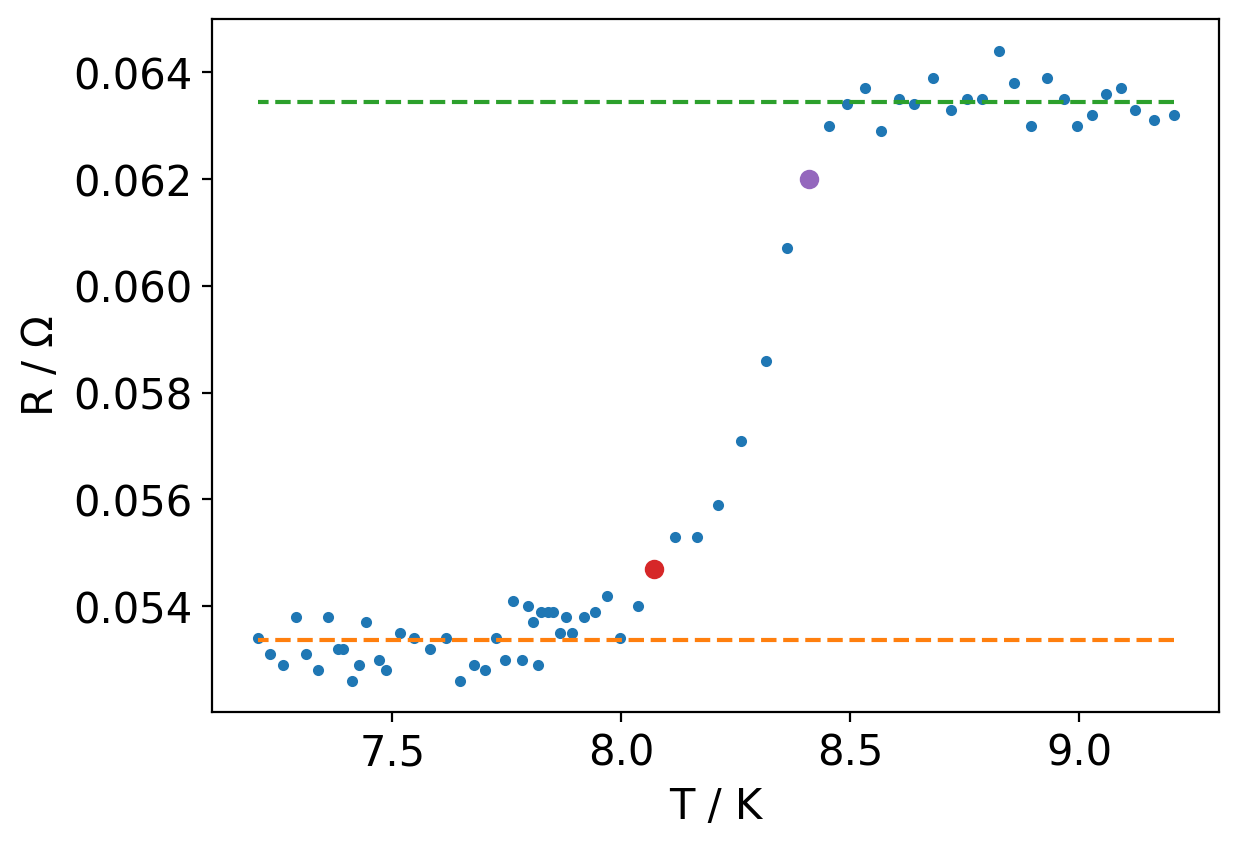
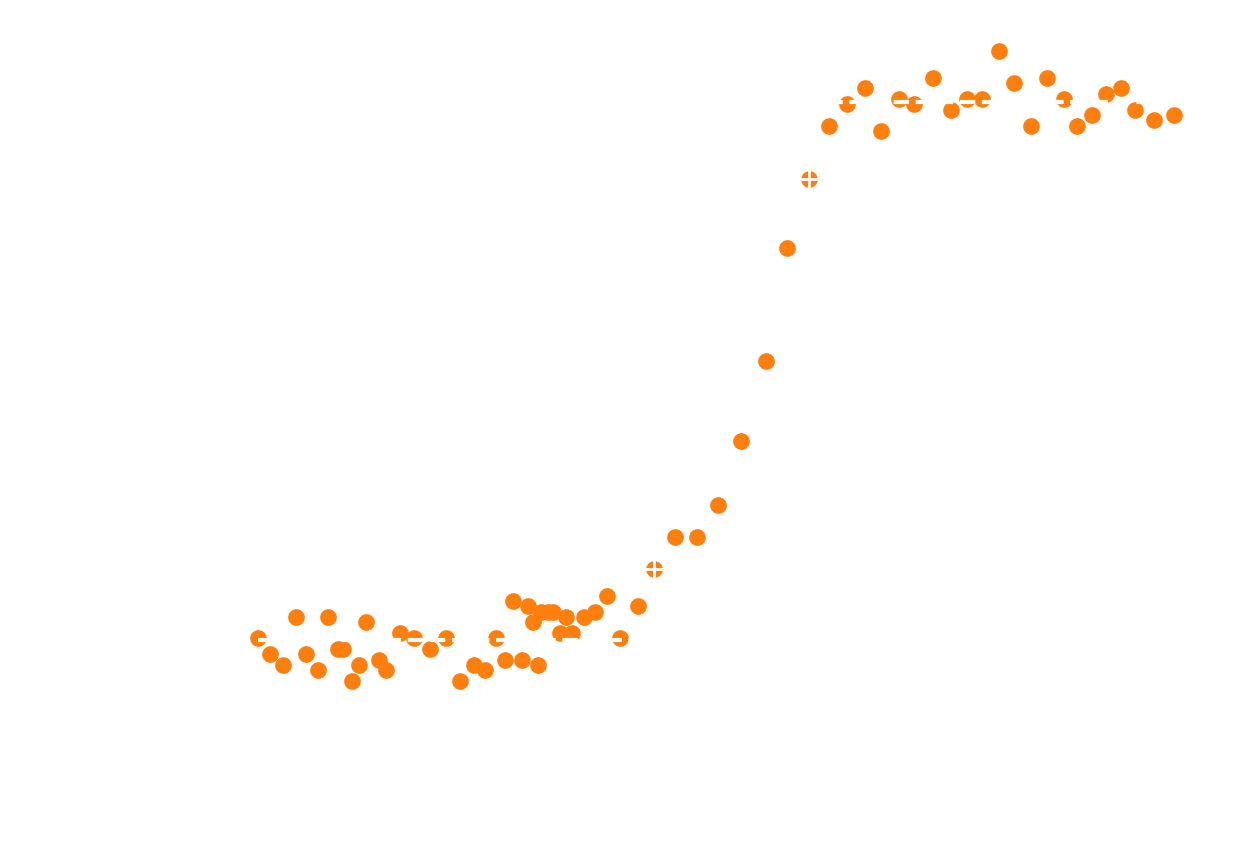
x

diff --git a/script5.py b/script5.py
@@ -13,6 +13,7 @@ class run:
 		self.export_extension = ".png"
 		self.dpi = 200
 		self.figsize = (6.5, 4.5)
+		self.markersize = 10
 
 
 	def main(self):
@@ -37,6 +38,18 @@ class run:
 			return x
 
 		plt.rcParams['font.size'] = '15'
+		#'''
+		plt.rcParams['axes.edgecolor'] = 'w'
+		plt.rcParams['axes.labelcolor'] = 'w'
+		plt.rcParams['figure.edgecolor'] = 'w'
+		plt.rcParams['legend.edgecolor'] = 'w'
+		plt.rcParams['text.color'] = 'w'
+		plt.rcParams['legend.facecolor'] = 'none'
+		plt.rcParams['xtick.color'] = 'w'
+		plt.rcParams['ytick.color'] = 'w'
+		
+		plt.rcParams['savefig.transparent'] = 'True'
+		#'''
 		
 		print(80*"_"+"\n\nSupraleitung Auswertung2 eigene Messdaten")
 
@@ -193,12 +206,12 @@ class run:
 		R_90p_B_0 = R_90p
 			
 		fig = plt.figure(figsize=self.figsize, dpi=80).add_subplot(1, 1, 1)
-		plt.plot(T_data, R_data, '.')
+		plt.plot(T_data, R_data, '.', color = "deepskyblue", markersize=self.markersize)
 		T_data = np.linspace(T_data[0],T_data[-1],1000)
-		plt.plot(T_data[fit_plot_range_os_l[0]:fit_plot_range_os_l[1]], offset(T_data[fit_plot_range_os_l[0]:fit_plot_range_os_l[1]], *popt_os_l), '--')
-		plt.plot(T_data[fit_plot_range_os_r[0]:fit_plot_range_os_r[1]], offset(T_data[fit_plot_range_os_r[0]:fit_plot_range_os_r[1]], *popt_os_r), '--')
-		plt.plot(Tc_10p, R_10p, 'o')
-		plt.plot(Tc_90p, R_90p, 'o')
+		plt.plot(T_data[fit_plot_range_os_l[0]:fit_plot_range_os_l[1]], offset(T_data[fit_plot_range_os_l[0]:fit_plot_range_os_l[1]], *popt_os_l), 'w--', markersize=self.markersize)
+		plt.plot(T_data[fit_plot_range_os_r[0]:fit_plot_range_os_r[1]], offset(T_data[fit_plot_range_os_r[0]:fit_plot_range_os_r[1]], *popt_os_r), 'w--', markersize=self.markersize)
+		plt.plot(Tc_10p, R_10p, 'w+', markersize=20)
+		plt.plot(Tc_90p, R_90p, 'w+', markersize=20)
 		plt.xlabel("T / K")
 		plt.ylabel(r"R / $\Omega$")
 		#plt.title("Tc Plot für I = 0A")
@@ -254,12 +267,12 @@ class run:
 		R_90p_B_1 = R_90p
 		
 		fig = plt.figure(figsize=self.figsize, dpi=80).add_subplot(1, 1, 1)
-		plt.plot(T_data, R_data, '.')
+		plt.plot(T_data, R_data, '.', color="tab:green", markersize=self.markersize)
 		T_data = np.linspace(T_data[0],T_data[-1],1000)
-		plt.plot(T_data[fit_plot_range_os_l[0]:fit_plot_range_os_l[1]], offset(T_data[fit_plot_range_os_l[0]:fit_plot_range_os_l[1]], *popt_os_l), '--')
-		plt.plot(T_data[fit_plot_range_os_r[0]:fit_plot_range_os_r[1]], offset(T_data[fit_plot_range_os_r[0]:fit_plot_range_os_r[1]], *popt_os_r), '--')
-		plt.plot(Tc_10p, R_10p, 'o')
-		plt.plot(Tc_90p, R_90p, 'o')
+		plt.plot(T_data[fit_plot_range_os_l[0]:fit_plot_range_os_l[1]], offset(T_data[fit_plot_range_os_l[0]:fit_plot_range_os_l[1]], *popt_os_l), 'w--', markersize=self.markersize)
+		plt.plot(T_data[fit_plot_range_os_r[0]:fit_plot_range_os_r[1]], offset(T_data[fit_plot_range_os_r[0]:fit_plot_range_os_r[1]], *popt_os_r), 'w--', markersize=self.markersize)
+		plt.plot(Tc_10p, R_10p, 'w+', markersize=20)
+		plt.plot(Tc_90p, R_90p, 'w+', markersize=20)
 		plt.xlabel("T / K")
 		plt.ylabel(r"R / $\Omega$")
 		#plt.title("Tc Plot für I = 0A")
@@ -318,12 +331,12 @@ class run:
 		R_90p_B_2 = R_90p
 		
 		fig = plt.figure(figsize=self.figsize, dpi=80).add_subplot(1, 1, 1)
-		plt.plot(T_data, R_data, '.')
+		plt.plot(T_data, R_data, '.', color="tab:orange", markersize=self.markersize)
 		T_data = np.linspace(T_data[0],T_data[-1],1000)
-		plt.plot(T_data[fit_plot_range_os_l[0]:fit_plot_range_os_l[1]], offset(T_data[fit_plot_range_os_l[0]:fit_plot_range_os_l[1]], *popt_os_l), '--')
-		plt.plot(T_data[fit_plot_range_os_r[0]:fit_plot_range_os_r[1]], offset(T_data[fit_plot_range_os_r[0]:fit_plot_range_os_r[1]], *popt_os_r), '--')
-		plt.plot(Tc_10p, R_10p, 'o')
-		plt.plot(Tc_90p, R_90p, 'o')
+		plt.plot(T_data[fit_plot_range_os_l[0]:fit_plot_range_os_l[1]], offset(T_data[fit_plot_range_os_l[0]:fit_plot_range_os_l[1]], *popt_os_l), 'w--', markersize=self.markersize)
+		plt.plot(T_data[fit_plot_range_os_r[0]:fit_plot_range_os_r[1]], offset(T_data[fit_plot_range_os_r[0]:fit_plot_range_os_r[1]], *popt_os_r), 'w--', markersize=self.markersize)
+		plt.plot(Tc_10p, R_10p, 'w+', markersize=20)
+		plt.plot(Tc_90p, R_90p, 'w+', markersize=20)
 		plt.xlabel("T / K")
 		plt.ylabel(r"R / $\Omega$")
 		#plt.title("Tc Plot für I = 0A")
@@ -337,15 +350,15 @@ class run:
 
 		
 		fig = plt.figure(figsize=self.figsize, dpi=80).add_subplot(1, 1, 1)
-		plt.plot(T_data_B_0, R_data_B_0, '.', label = r"$\mu_0$H=0")
-		plt.plot(T_data_B_2, R_data_B_2, '.', label = r"$\mu_0$H=129mT")
-		plt.plot(T_data_B_1, R_data_B_1, '.', label = r"$\mu_0$H=259mT")
+		plt.plot(T_data_B_0, R_data_B_0, '.', color = "deepskyblue", markersize=self.markersize, label = r"$\mu_0$H=0")
+		plt.plot(T_data_B_2, R_data_B_2, '.', color = "tab:orange", markersize=self.markersize, label = r"$\mu_0$H=129mT")
+		plt.plot(T_data_B_1, R_data_B_1, '.', color = "tab:green", markersize=self.markersize, label = r"$\mu_0$H=259mT")
 		plt.xlabel("T / K")
 		plt.ylabel(r"R / $\Omega$")
 		plt.xlim(5, None)
 		#plt.title("Tc Plot für I = 0A")
 		#plt.legend(loc='lower right')
-		plt.legend(loc='upper left')
+		plt.legend(loc='upper left', markerscale=2)
 		maximize()
 		plt.savefig(self.export_folder+"Tc_plot_all"+self.export_extension, bbox_inches='tight', dpi=self.dpi)
 		plt.show()
@@ -394,18 +407,20 @@ class run:
 		print("oberes krit. Magnetfeld Bc2={:.4}T".format(B_c2))
 		
 		fig = plt.figure(figsize=self.figsize, dpi=80).add_subplot(1, 1, 1)
-		plt.plot(T_data_10p, B_data, 'o')
-		plt.plot(T_data_90p, B_data, 'o')
+		plt.plot(T_data_10p, B_data, 'o', color = "deepskyblue")
+		plt.plot(T_data_90p, B_data, 'o', color = "tab:orange")
 		T_data_10p = np.linspace(T_data_10p[fit_plot_range[0]:fit_plot_range[1]][0],T_data_10p[fit_plot_range[0]:fit_plot_range[1]][-1],1000)
 		T_data_90p = np.linspace(T_data_90p[fit_plot_range[0]:fit_plot_range[1]][0],T_data_90p[fit_plot_range[0]:fit_plot_range[1]][-1],1000)
-		plt.plot(T_data_10p, lin(T_data_10p, *popt_10p), '--', color= "tab:blue", label = r"Lin. Fit: $y=S\cdot x+a$"+"\n"+r"S=({:.4}$\pm${:.3})mT/K".format(popt_10p[1],np.sqrt(np.diag(pcov_10p))[1]))
-		plt.plot(T_data_90p, lin(T_data_90p, *popt_90p), '--', color= "tab:orange", label = r"Lin. Fit: $y=S\cdot x+a$"+"\n"+r"S=({:.4}$\pm${:.3})mT/K".format(popt_90p[1],np.sqrt(np.diag(pcov_90p))[1]))
+		plt.plot(T_data_10p, lin(T_data_10p, *popt_10p), '--', markersize=self.markersize, color= "deepskyblue", label = r"Lin. Fit: $y=S\cdot x+a$"+"\n"+r"S=({:.4}$\pm${:.3})mT/K".format(popt_10p[1],np.sqrt(np.diag(pcov_10p))[1]))
+		plt.plot(T_data_90p, lin(T_data_90p, *popt_90p), '--', markersize=self.markersize, color= "tab:orange", label = r"Lin. Fit: $y=S\cdot x+a$"+"\n"+r"S=({:.4}$\pm${:.3})mT/K".format(popt_90p[1],np.sqrt(np.diag(pcov_90p))[1]))
 		plt.xlabel(r"$T_C$ / K")
 		plt.ylabel(r"$B_C$ / mT")
-		plt.xlim(None,10)
+		plt.xlim(None,10.5)
 		plt.ylim(0,None)
 		#plt.title("Phasendiagramm Niob")
-		plt.legend(loc='upper right')
+		leg = plt.legend(loc='upper right')
+		#leg.get_frame().set_edgecolor('w')
+		#leg.get_frame().set_facecolor('none')
 		maximize()
 		plt.savefig(self.export_folder+"phasen_diagramm"+self.export_extension, bbox_inches='tight', dpi=self.dpi)
 		plt.show()
